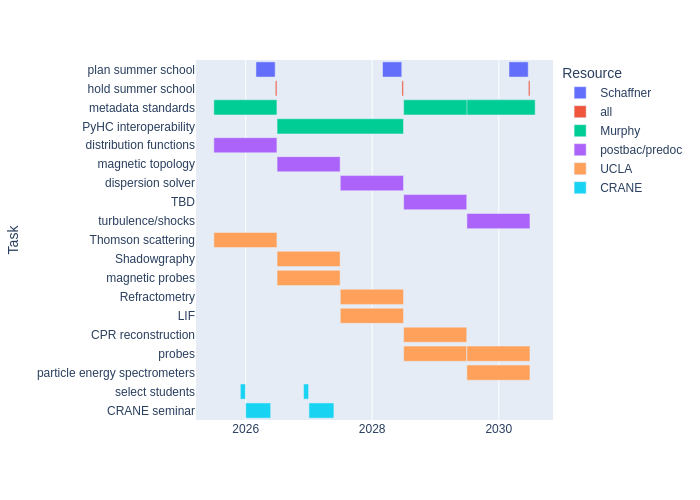
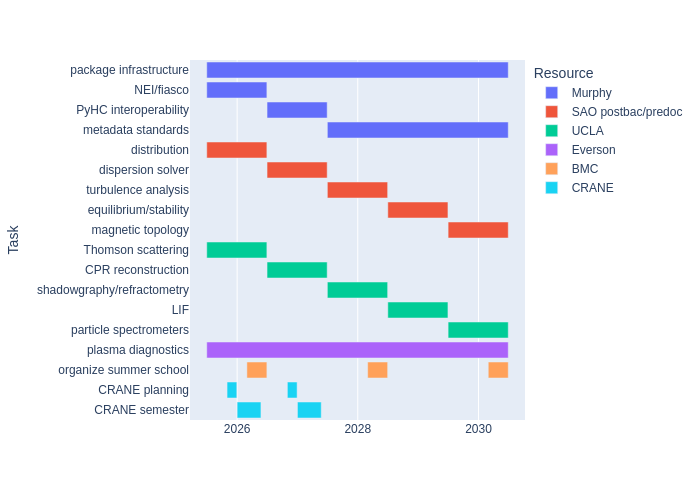
Better flesh out tasks

Changed region(s): [[0.06, 0.12, 0.99, 0.87], [0.66, 0.84, 0.75, 0.87], [0.48, 0.84, 0.57, 0.87]]

diff --git a/gantt.py b/gantt.py
@@ -29,59 +29,58 @@ def main() -> None:
     year4 = ("2028-07-01", "2029-06-30")
     year5 = ("2029-07-01", "2030-06-30")
 
+    years = [year1, year2, year3, year4, year5]
+    full = (year1[0], year5[1])
+
+    sao_postbac = [
+        "distribution",
+        "dispersion solver",
+        "turbulence analysis",
+        "equilibrium/stability",
+        "magnetic topology",
+#        "shock analysis",
+    ]
+
+    sao_tasks = []
+    for year, sao_postbac in zip(years, sao_postbac):
+        sao_tasks.append(assign(sao_postbac, *year, "SAO postbac/predoc"))
+
     df = pd.DataFrame([
 
-        assign("package infrastructure", "2025-07-01", "2030-06-30", "Murphy")
+        assign("package infrastructure", *full, "Murphy"),
 
-        assign("metadata standards", *year1, "Murphy"),
-        assign("PyHC interoperability", "2026-07-01", "2028-06-30", "Murphy"),
-        assign("metadata standards", "2028-07-01", "2030-06-30", "Murphy"),
-#        assign("metadata standards", "2029-07-01", "2030-07-30", "Murphy"),
+        assign("NEI/fiasco", *year1,"Murphy"),
+        #assign("Plasma-MDS/openPMD", *year1, "Murphy"),
+        assign("PyHC interoperability", *year2, "Murphy"),
+        assign("metadata standards", "2027-07-01", "2030-06-30", "Murphy"),
 
-        assign("plan summer school", "2026-03-01", "2026-06-20", "BMC"),
-        assign("plan summer school", "2028-03-01", "2028-06-20", "BMC"),
-        assign("plan summer school", "2030-03-01", "2030-06-20", "BMC"),
-
-        assign("hold summer school", "2026-06-21", "2026-06-30", "all"),
-        assign("hold summer school", "2028-06-21", "2028-06-30", "all"),
-        assign("hold summer school", "2030-06-21", "2030-06-30", "all"),
-
-
-        assign("distribution functions", *year1, "postbac/predoc"),
-        assign("magnetic topology", *year2, "postbac/predoc"),
-        assign("dispersion solver", *year3, "postbac/predoc"),
-        assign("TBD", *year4, "postbac/predoc"),
-        assign("turbulence/shocks", *year5, "postbac/predoc"),
+        *sao_tasks,
 
         # UCLA
 
-        assign("Thomson scattering", *year1, "UCLA"), # hedp + fun
+        assign("Thomson scattering", *year1, "UCLA"),  # hedp + fun
+        assign("CPR reconstruction", *year2, "UCLA"),  # hedp
+        assign("shadowgraphy/refractometry", *year3, "UCLA"), # hepd
+        assign("LIF", *year4, "UCLA"), # fun
+        assign("particle spectrometers", *year5, "UCLA"),  # hedp
 
-        assign("Shadowgraphy", *year2, "UCLA"), # hepd
-        assign("magnetic probes", *year2, "UCLA"), # fun
+        assign("plasma diagnostics", *full, "Everson"),  # fun
 
-        assign("Refractometry", *year3, "UCLA"), # hedp
-        assign("LIF", *year3, "UCLA"), # fun
+        assign("organize summer school", "2026-03-01", "2026-06-30", "BMC"),
+        assign("organize summer school", "2028-03-01", "2028-06-30", "BMC"),
+        assign("organize summer school", "2030-03-01", "2030-06-30", "BMC"),
 
-        assign("CPR reconstruction", *year4, "UCLA"), # hedp
-        assign("probes", *year4, "UCLA"), # fun
-
-        assign("particle energy spectrometers", *year5, "UCLA"), # hedp
-        assign("probes", *year5, "UCLA"), # fun
-
-        assign("select students", "2025-12-01", "2025-12-30", "CRANE"),
-        assign("CRANE seminar", "2026-01-01", "2026-05-25", "CRANE"),
-        assign("select students", "2026-12-01", "2026-12-30", "CRANE"),
-        assign("CRANE seminar", "2027-01-01", "2027-05-25", "CRANE"),
+        assign("CRANE planning", "2025-11-01", "2025-12-30", "CRANE"),
+        assign("CRANE semester", "2026-01-01", "2026-05-25", "CRANE"),
+        assign("CRANE planning", "2026-11-01", "2026-12-30", "CRANE"),
+        assign("CRANE semester", "2027-01-01", "2027-05-25", "CRANE"),
 
     ])
 
     fig = px.timeline(df, x_start="Start", x_end="Finish", y="Task", color="Resource")
     fig.update_yaxes(autorange="reversed")
-#    fig.show()
+    fig.show()
     fig.write_image("gantt.png")
-
-    print(dir(fig))
 
 if __name__ == "__main__":
     main()
